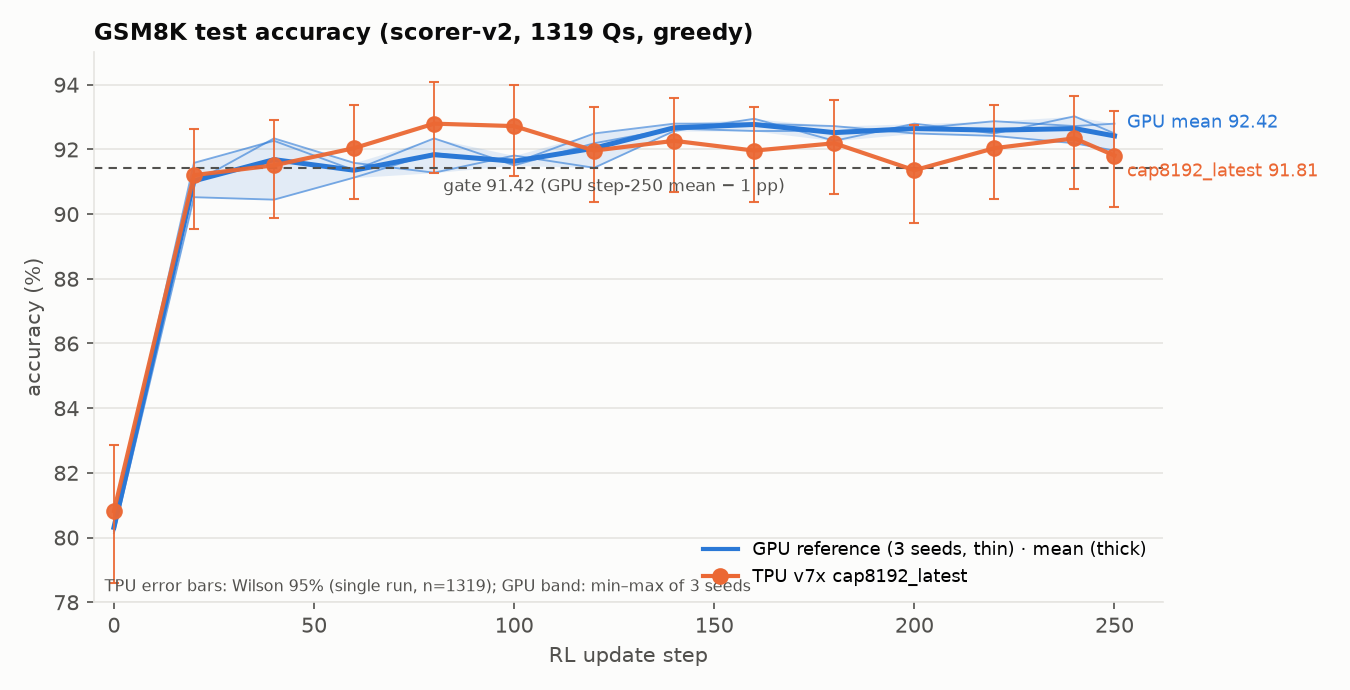
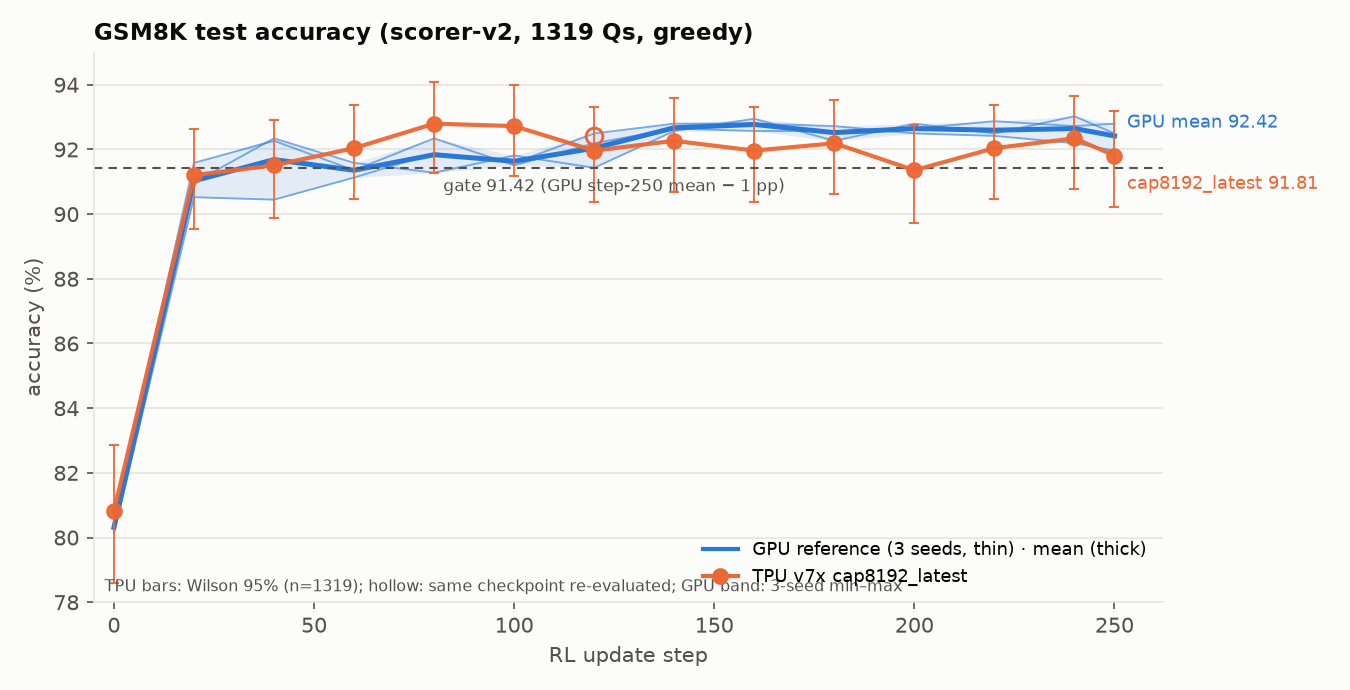
gemma4 cap-8192 parity figure: 8 panels; direct KL replaces reversed-direction k3; duplicate evals shown; eval intervals filtered from wall time; loss panel dropped; fix k3 direction in the TIS logging patches

Changed region(s): [[0.0933, 0.8217, 0.6533, 0.8826], [0.84, 0.2435, 0.9956, 0.2739], [0.4356, 0.1826, 0.4667, 0.213]]

diff --git a/gemma4/parity/tools/make_parity_figures.py b/gemma4/parity/tools/make_parity_figures.py
@@ -89,6 +89,11 @@ def parse_logs(logs):
                         rec["t"] = ((dd * 24 + hh) * 60 + mi) * 60 + ss + us / 1e6
                     last_step = s
                     continue
+                if "EVAL-BREAKDOWN" in line or "EVAL-V2ACC" in line:
+                    t = TS_RE.match(line)
+                    if t:
+                        mo, dd, hh, mi, ss, us = (int(x) for x in t.groups())
+                        steps.setdefault("_eval_ts", []).append(((dd * 24 + hh) * 60 + mi) * 60 + ss + us / 1e6)
                 m = EVAL_RE.search(line)
                 if m:
                     s = int(m.group(1)) if m.group(1) else 0
@@ -109,7 +114,8 @@ def parse_logs(logs):
                     g = m.groups()
                     steps.setdefault(last_step, {})["tis"] = dict(
                         wmean=float(g[0]), wmin=float(g[1]), wmax=float(g[2]), clip=float(g[3]),
-                        k3=float(g[4]) if g[4] else None, ess=float(g[5]) if g[5] else None)
+                        k3=float(g[4]) if g[4] else None, ess=float(g[5]) if g[5] else None,
+                        lrm=float(g[6]) if g[6] else None)
                     continue
                 m = PHASE_RE.search(line)
                 if m:
@@ -134,10 +140,12 @@ def load_tpu(name, dumpdir, logs):
     if not files:
         raise SystemExit(f"no eval dumps in {dumpdir}")
     steps_log, eval_steps = parse_logs(logs)
+    eval_ts = steps_log.pop("_eval_ts", [])
     trained = sorted(s for s, r in steps_log.items() if "loss" in r)
     last_step = trained[-1] if trained else None
     evals = OrderedDict()
     prev = None
+    dups = []  # (step, acc) of a second evaluation of the same checkpoint (first pass vs re-run after a resume)
     for fp in files:
         k = int(re.search(r"eval_(\d{3})\.jsonl$", fp).group(1))  # file name = RL update step
         rows = [json.loads(l) for l in open(fp) if l.strip()]
@@ -163,8 +171,10 @@ def load_tpu(name, dumpdir, logs):
             tie = abs(mt - pmt) < 300  # same download batch
             if (not tie and mt < pmt) or (tie and evals[step].get("k") == step and k != step):
                 print(f"  [skip] {os.path.basename(fp)}: older duplicate of step {step}", file=sys.stderr)
+                dups.append((step, float(np.mean([float(r["acc"]) for r in rows]))))
                 continue
             print(f"  [replace] step {step}: {os.path.basename(fp)} supersedes the earlier dump", file=sys.stderr)
+            dups.append((step, evals[step]["acc"]))
         n = len(rows)
         accs = np.array([float(r["acc"]) for r in rows])
         acc = accs.mean()
@@ -188,9 +198,10 @@ def load_tpu(name, dumpdir, logs):
         if b == a + 1 and "t" in steps_log[a] and "t" in steps_log[b]:
             dt = steps_log[b]["t"] - steps_log[a]["t"]
             # drop sub-5s artifacts (duplicate step lines across restarts) and eval-adjacent steps
-            if 5 < dt < 300 and not steps_log[a].get("eval") and not steps_log[b].get("eval"):  # >300 s = a restart/resume gap, not a step
+            has_eval = any(steps_log[a]["t"] < e <= steps_log[b]["t"] for e in eval_ts)
+            if 10 < dt < 300 and not has_eval and not steps_log[a].get("eval") and not steps_log[b].get("eval"):  # >300 s = a restart/resume gap, not a step
                 times[b] = dt
-    return dict(name=name, evals=evals, steps=steps_log, times=times, trained=trained)
+    return dict(name=name, evals=evals, steps=steps_log, times=times, trained=trained, dups=dups)
 
 
 # ---------------------------------------------------------------- figures
@@ -225,14 +236,16 @@ def fig_accuracy(ax, gpu, tpu_runs, gate):
         xs = list(r["evals"].keys()); ys = [r["evals"][s]["acc"] * 100 for s in xs]
         err = np.array([[ (r["evals"][s]["acc"] - r["evals"][s]["wilson"][0]) * 100, (r["evals"][s]["wilson"][1] - r["evals"][s]["acc"]) * 100] for s in xs]).T
         ax.errorbar(xs, ys, yerr=err, color=TPU_C, marker=MARKERS[i % len(MARKERS)], ms=7, lw=2, capsize=2.5, elinewidth=0.9, alpha=0.95)
-        ax.annotate(f"{r['name']} {ys[-1]:.2f}", (xs[-1], ys[-1]), xytext=(6, -10 - 10 * i), textcoords="offset points", color=TPU_C, fontsize=8.5)
+        ax.annotate(f"{r['name']} {ys[-1]:.2f}", (xs[-1], ys[-1]), xytext=(6, -16 - 10 * i), textcoords="offset points", color=TPU_C, fontsize=8.5)
+        if r.get("dups"):
+            ax.plot([d[0] for d in r["dups"]], [d[1] * 100 for d in r["dups"]], ls="none", marker=MARKERS[i % len(MARKERS)], ms=8, mfc="none", mec=TPU_C, mew=1.4, zorder=5)
     if gate:
         ax.axhline(gate, color=INK2, lw=1, ls=(0, (4, 3)))
         ax.annotate(f"gate {gate:.2f} (GPU step-250 mean − 1 pp)", (125, gate), xytext=(0, -11), textcoords="offset points", color=INK2, fontsize=8, ha="center")
     ax.set_xlim(-5, 262); ax.set_ylim(78, 95)
     style_ax(ax, "GSM8K test accuracy (scorer-v2, 1319 Qs, greedy)", ylabel="accuracy (%)")
     legend_platforms(ax, gpu["seeds"], tpu_runs)
-    ax.text(0.01, 0.02, "TPU error bars: Wilson 95% (single run, n=1319); GPU band: min–max of 3 seeds",
+    ax.text(0.01, 0.02, "TPU bars: Wilson 95% (n=1319); hollow: same checkpoint re-evaluated; GPU band: 3-seed min–max",
             transform=ax.transAxes, fontsize=7.5, color=INK2)
 
 
@@ -275,7 +288,7 @@ def fig_transitions(ax, gpu, tpu_runs):
         ax.plot(xs, [r["evals"][s]["w2r"] for s in xs], color=TPU_C, marker=MARKERS[i % len(MARKERS)], ms=7)
         ax.plot(xs, [-r["evals"][s]["r2w"] for s in xs], color=TPU_C, marker=MARKERS[i % len(MARKERS)], ms=7, ls="--")
     ax.axhline(0, color=GRID, lw=1)
-    style_ax(ax, "Questions changed vs step 0: wrong→right (solid, +) / right→wrong (dashed, −)", ylabel="questions")
+    style_ax(ax, "Questions flipped vs step 0 (solid: fixed, dashed: broken)", ylabel="questions")
 
 
 def fig_train_len(ax, gpu, tpu_runs):
@@ -332,32 +345,35 @@ def fig_tis(ax, gpu, tpu_runs):
     ax.axhspan(lo, hi, color=GPU_C, alpha=0.15, lw=0)
     ax.annotate(f"GPU range {lo:.1f}–{hi:.1f} ppm (all updates, {len(gs)} seeds)", (2, hi), xytext=(4, 3), textcoords="offset points", color=GPU_C, fontsize=8)
     ax.text(0.99, 0.97, "\n".join(["TPU " + c for c in capped]), transform=ax.transAxes, ha="right", va="top", color=TPU_C, fontsize=8)
-    style_ax(ax, "Tokens clipped at the TIS cap 3.0 per update (per million tokens)", ylabel="clipped tokens (ppm)")
+    style_ax(ax, "Tokens clipped at the TIS cap 3.0 per update (ppm)", ylabel="clipped tokens (ppm)")
     ax.set_ylim(-0.3, max(8.0, hi * 1.6, top + 1.5))
 
 
 def fig_k3_ess(ax, gpu, tpu_runs):
+    # Direct estimator KL(pi_rollout || pi_trainer) = mean(log pi_rollout - log pi_trainer): verl "rollout_corr/kl",
+    # TPU -logratio_mean. Identical definition on both sides. (The TPU "k3_kl" log field was computed in the reverse
+    # direction from verl, exp(-x)+x-1 instead of exp(x)-x-1, so one token at the -20 log-ratio clamp read as e^20;
+    # it is not plotted.)
     have = False
     for i, r in enumerate(tpu_runs):
-        xs = sorted(s for s, rec in r["steps"].items() if rec.get("tis", {}).get("k3") is not None)
+        xs = sorted(s for s, rec in r["steps"].items() if rec.get("tis", {}).get("lrm") is not None)
         if not xs: continue
         have = True
-        ax.plot(xs, [r["steps"][s]["tis"]["k3"] for s in xs], color=TPU_C, lw=1.2, marker=MARKERS[i % len(MARKERS)], ms=3)
-    lo = min(gpu["train"][sd]["k3_kl_range"][0] for sd in gpu["seeds"]); hi = max(gpu["train"][sd]["k3_kl_range"][1] for sd in gpu["seeds"])
+        ax.plot(xs, [-r["steps"][s]["tis"]["lrm"] * 1e4 for s in xs], color=TPU_C, lw=1.2, marker=MARKERS[i % len(MARKERS)], ms=3)
+    lo = min(gpu["train"][sd]["kl_range"][0] for sd in gpu["seeds"]) * 1e4; hi = max(gpu["train"][sd]["kl_range"][1] for sd in gpu["seeds"]) * 1e4
     ax.axhspan(lo, hi, color=GPU_C, alpha=0.15, lw=0)
-    ax.annotate(f"GPU k3 KL range {lo:.1e}–{hi:.1e}", (2, hi), xytext=(4, 3), textcoords="offset points", color=GPU_C, fontsize=8)
-    style_ax(ax, "Sampler↔trainer k3 KL per step (token mean)", ylabel="k3 KL")
-    ax.set_xlim(-5, 262)
+    ax.annotate(f"GPU range {lo:.1f}–{hi:.1f} (all updates, {len(gpu['seeds'])} seeds)", (2, hi), xytext=(4, 3), textcoords="offset points", color=GPU_C, fontsize=8)
+    style_ax(ax, "KL(rollout‖trainer) per update (×1e-4)", ylabel="KL ×1e-4")
+    ax.set_xlim(-5, 262); ax.set_ylim(bottom=0)
     if not have:
-        ax.text(0.5, 0.5, "TPU k3/ESS logging added for seeds 43/44", ha="center", transform=ax.transAxes, color=INK2)
-    ax.set_yscale("log")
+        ax.text(0.5, 0.5, "no TPU log-ratio logging in this run", ha="center", transform=ax.transAxes, color=INK2)
 
 
 def fig_loss(ax, gpu, tpu_runs):
     for i, r in enumerate(tpu_runs):
         xs = sorted(s for s, rec in r["steps"].items() if "loss" in rec)
         ax.plot(xs, [r["steps"][s]["loss"] for s in xs], color=TPU_C, lw=1, marker=MARKERS[i % len(MARKERS)], ms=3)
-    style_ax(ax, "TPU training loss per update (−A·w·logπ, token mean)", ylabel="loss")
+    style_ax(ax, "TPU training loss per update (−A·w·logπ; TPU only, verl logs a different surrogate)", ylabel="loss")
 
 
 def summary_md(gpu, tpu_runs, gate, out):
@@ -378,7 +394,7 @@ def summary_md(gpu, tpu_runs, gate, out):
     fin = [r["evals"][250]["acc"] for r in tpu_runs if 250 in r["evals"]]
     if fin:
         m = np.mean(fin) * 100
-        L.append(f"TPU step-250: {', '.join(f'{v*100:.2f}' for v in fin)} → mean **{m:.2f}** → **{'PASS' if m >= gate else 'FAIL'}** ({len(fin)} of 3 seeds).")
+        L.append(f"TPU step-250: {', '.join(f'{v*100:.2f}' for v in fin)} → mean **{m:.2f}** → **{'PASS' if m >= gate else 'FAIL'}** ({len(fin)} TPU run{'s' if len(fin) != 1 else ''} vs 3 GPU seeds).")
     else:
         L.append("TPU step-250: not yet available.")
     L += ["", "## Step time (non-eval updates)", "", "| run | median s | mean s | p90 s | n |", "|---|---:|---:|---:|---:|"]
@@ -412,11 +428,12 @@ def main():
     panels = [("01_accuracy", fig_accuracy, (gpu, runs, gate)), ("02_delta", fig_delta, (gpu, runs)),
               ("03_boxed", fig_boxed, (gpu, runs)), ("04_transitions", fig_transitions, (gpu, runs)),
               ("05_train_len", fig_train_len, (gpu, runs)), ("06_step_time", fig_step_time, (gpu, runs)),
-              ("07_tis_weights", fig_tis, (gpu, runs)), ("08_k3_kl", fig_k3_ess, (gpu, runs)), ("09_loss", fig_loss, (gpu, runs))]
+              ("07_tis_weights", fig_tis, (gpu, runs)), ("08_k3_kl", fig_k3_ess, (gpu, runs))]
+    # the TPU loss panel is not a parity plot (verl logs a different surrogate) and is no longer drawn
     for name, fn, args in panels:
         fig, ax = plt.subplots(figsize=(9, 4.6)); fn(ax, *args); fig.tight_layout()
         fig.savefig(os.path.join(a.out, name + ".png"), dpi=a.dpi); plt.close(fig)
-    fig, axes = plt.subplots(3, 3, figsize=(22, 14.5))
+    fig, axes = plt.subplots(2, 4, figsize=(30, 10.5))
     for (name, fn, args), ax in zip(panels, axes.flat):
         fn(ax, *args)
     fig.suptitle("gemma4-E2B · GSM8K · GRPO+TIS · TPU v7x (MaxText+tunix) vs GPU reference", x=0.01, ha="left", fontsize=14, fontweight="bold", color=INK)

diff --git a/gemma4/parity/patches/patch_sampler_is.py b/gemma4/parity/patches/patch_sampler_is.py
@@ -216,7 +216,7 @@ else:
         '      _tis_wmin = float(jnp.min(jnp.where(asst_mask_f > 0, sampler_is_weights, 1.0)))  # _TIS_STDOUT\n'
         '      _tis_w = jnp.exp(log_ratio) * asst_mask_f  # unclipped token weights (GPU ESS / k3 definitions)\n'
         '      _tis_ess = float(_tis_w.sum() ** 2 / jnp.maximum((_tis_w ** 2).sum() * mask_sum, 1e-12))\n'
-        '      _tis_d = -log_ratio  # log(pi_sampler) - log(pi_trainer)\n'
+        '      _tis_d = log_ratio  # log(pi_trainer) - log(pi_sampler): verl k3 direction, E[r - log r - 1], r = pi_trainer/pi_sampler\n'
         '      _tis_k3 = float(((jnp.exp(_tis_d) - _tis_d - 1.0) * asst_mask_f).sum() / mask_sum)\n'
         '      _tis_lrm = float((log_ratio * asst_mask_f).sum() / mask_sum)\n'
         '      _tis_lra = float((jnp.abs(log_ratio) * asst_mask_f).sum() / mask_sum)\n'

diff --git a/gemma4/parity/patches/patch_sampler_is_newimg.py b/gemma4/parity/patches/patch_sampler_is_newimg.py
@@ -209,7 +209,7 @@ else:
         '      _tis_wmin = float(jnp.min(jnp.where(asst_mask_f > 0, sampler_is_weights, 1.0)))  # _TIS_STDOUT\n'
         '      _tis_w = jnp.exp(log_ratio) * asst_mask_f  # unclipped token weights (GPU ESS / k3 definitions)\n'
         '      _tis_ess = float(_tis_w.sum() ** 2 / jnp.maximum((_tis_w ** 2).sum() * mask_sum, 1e-12))\n'
-        '      _tis_d = -log_ratio  # log(pi_sampler) - log(pi_trainer)\n'
+        '      _tis_d = log_ratio  # log(pi_trainer) - log(pi_sampler): verl k3 direction, E[r - log r - 1], r = pi_trainer/pi_sampler\n'
         '      _tis_k3 = float(((jnp.exp(_tis_d) - _tis_d - 1.0) * asst_mask_f).sum() / mask_sum)\n'
         '      _tis_lrm = float((log_ratio * asst_mask_f).sum() / mask_sum)\n'
         '      _tis_lra = float((jnp.abs(log_ratio) * asst_mask_f).sum() / mask_sum)\n'

diff --git a/gemma4/parity/figures_cap8192/parity_summary.md b/gemma4/parity/figures_cap8192/parity_summary.md
@@ -18,7 +18,7 @@
 | 250 | 92.42 ± 0.42 (91.96–92.80) | 91.81 [90.2, 93.2] | -0.61 |
 
 Gate: step-250 TPU mean ≥ 91.42 (GPU step-250 mean 92.42 − 1 pp).
-TPU step-250: 91.81 → mean **91.81** → **PASS** (1 of 3 seeds).
+TPU step-250: 91.81 → mean **91.81** → **PASS** (1 TPU run vs 3 GPU seeds).
 
 ## Step time (non-eval updates)
 
@@ -27,4 +27,4 @@ TPU step-250: 91.81 → mean **91.81** → **PASS** (1 of 3 seeds).
 | GPU seed1 | 31.7 | 33.1 | 41.2 | 218 |
 | GPU seed2 | 33.1 | 34.9 | 44.5 | 218 |
 | GPU seed3 | 35.0 | 35.4 | 42.3 | 218 |
-| TPU cap8192_latest | 49.4 | 50.9 | 55.3 | 224 |
+| TPU cap8192_latest | 49.3 | 49.6 | 55.1 | 221 |
